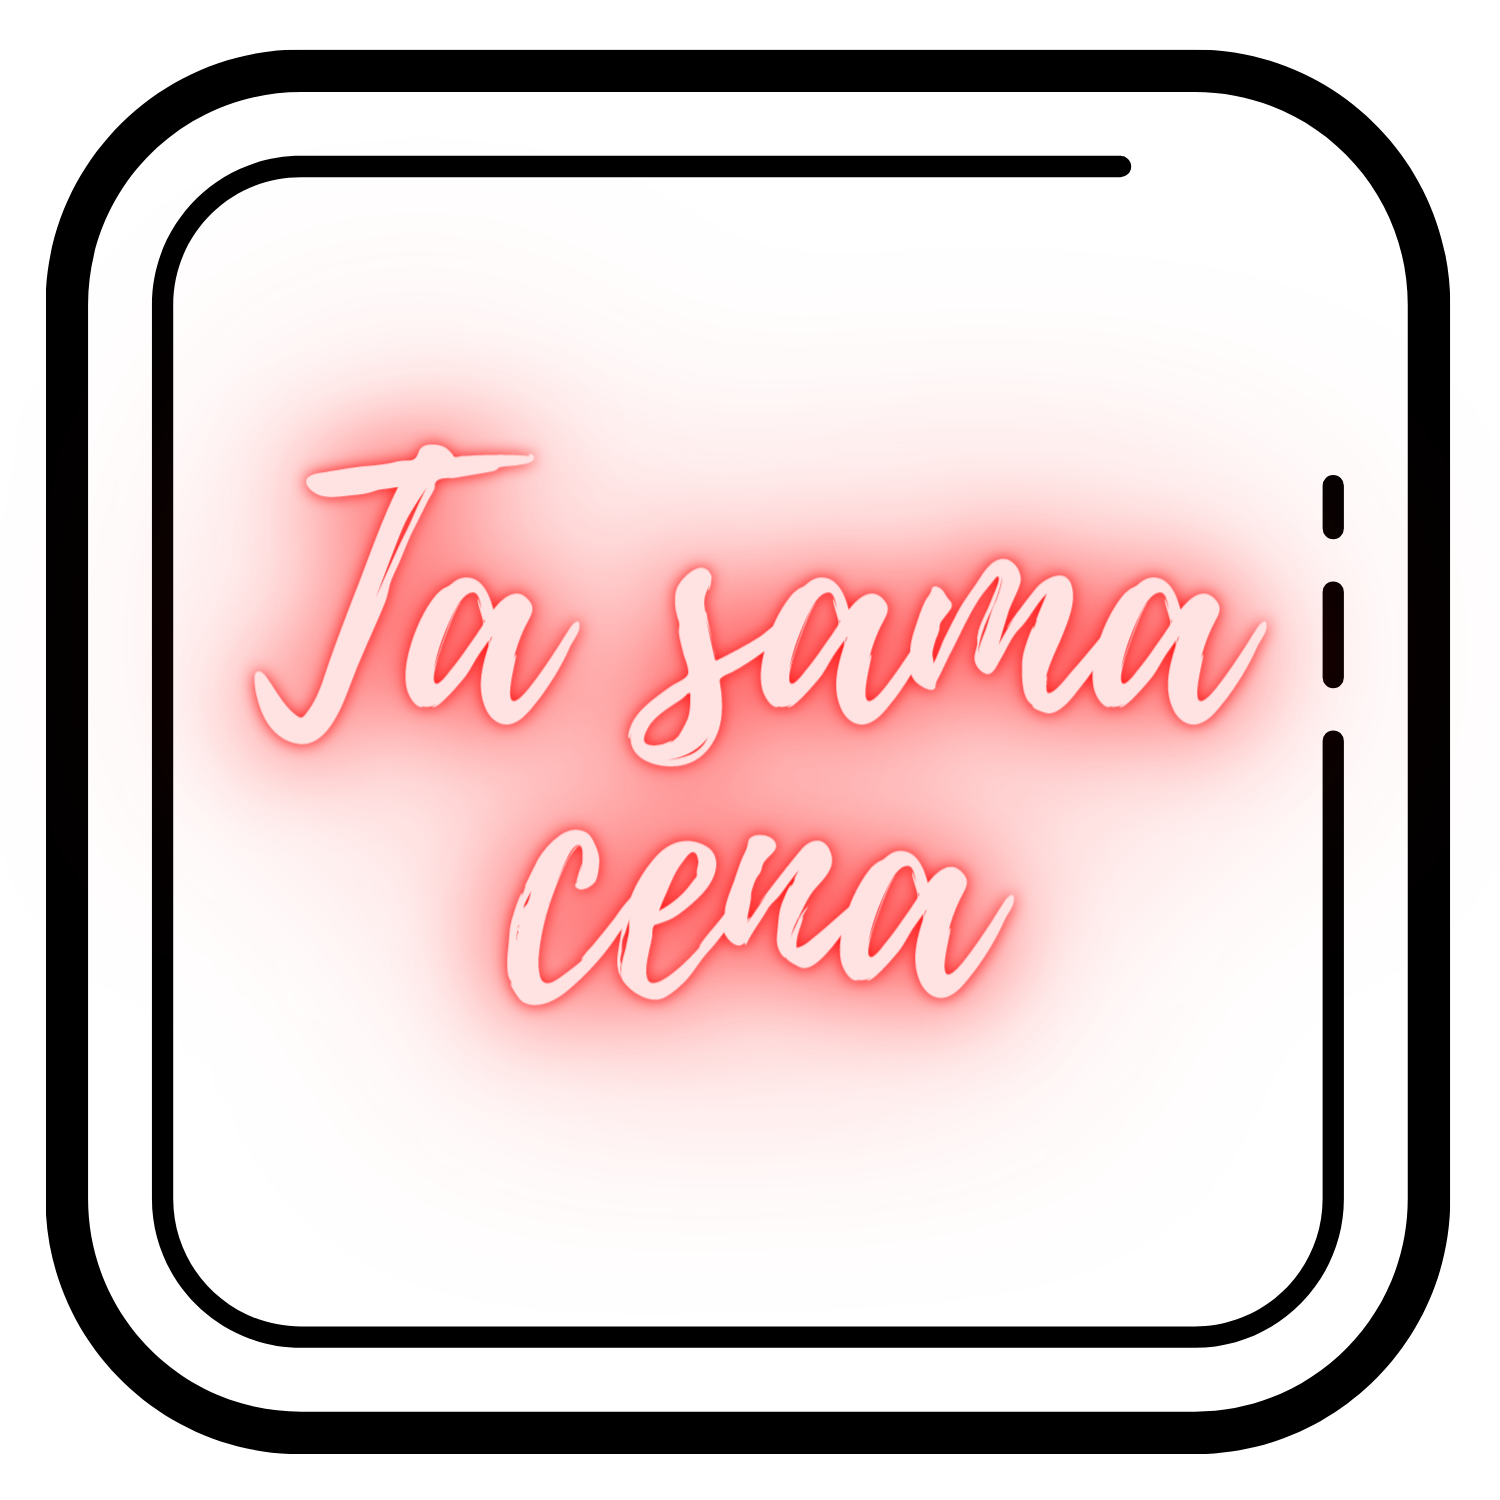
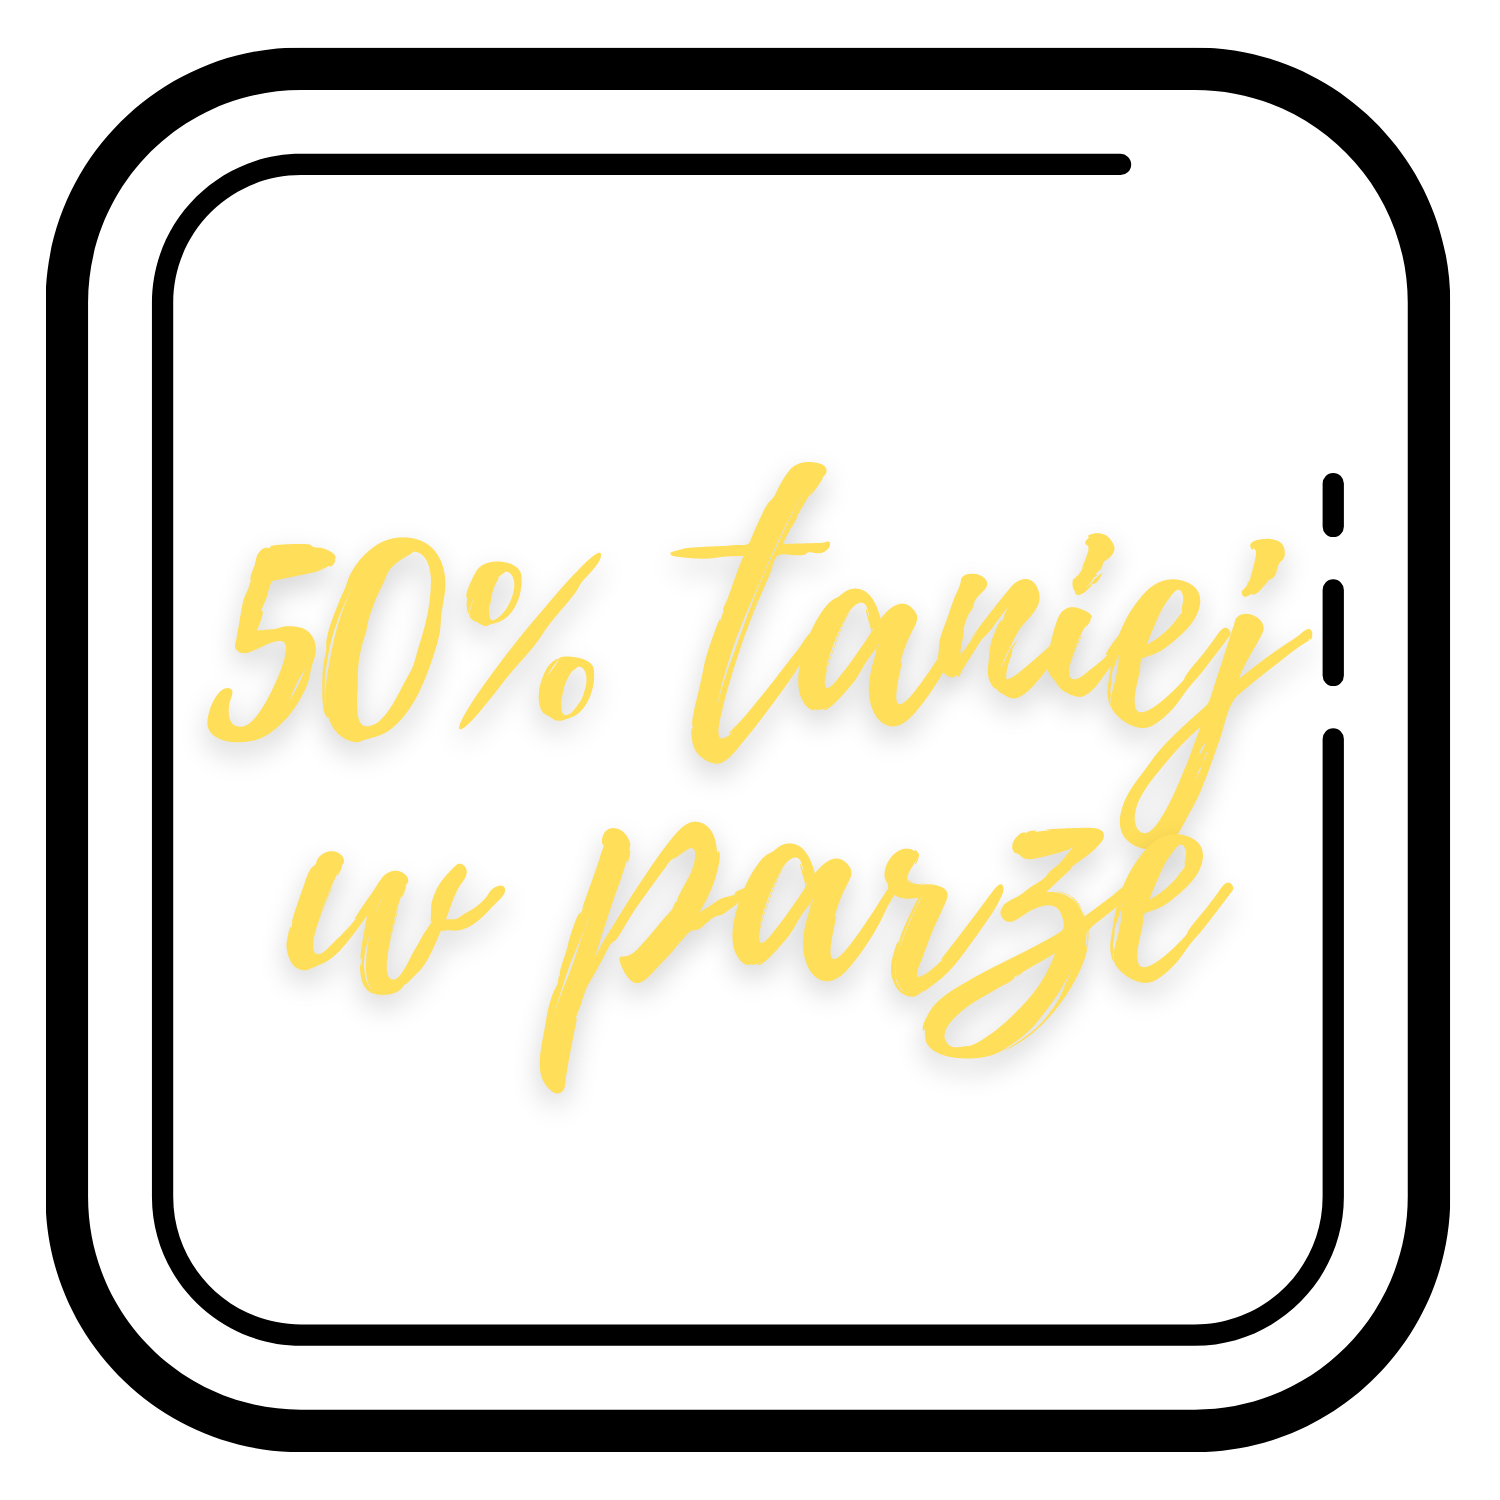
fix(aside): add aside pics, add flashcards back

diff --git a/src/styles/main-style.scss b/src/styles/main-style.scss
@@ -16,13 +16,12 @@
     }
 
     &__single-article {
-        background: white;
-        padding: 1rem;
-        margin-top: 3rem;
+        margin-top: 3rem 0 0;
         text-align: center;
 
-        @media (min-width: $tablet) and (max-width: $desktop) {
-            font-size: 24px;
+        @media (min-width: $tablet) {
+            font-size: 16px;
+            padding: 3rem;
         }
     }
 
@@ -52,7 +51,7 @@
 }
 
 .icon-image {
-    height: 20vh;
+    height: 22vh;
     width: auto;
     margin: 5% 0;
 }
@@ -60,8 +59,8 @@
 .flashcard {
     font-size: 1rem;
     background-color: transparent;
-    height: 20vh;
-    width: 20vh;
+    height: 25vh;
+    width: 25vh;
     margin: 5% auto;
     justify-self: center;
 }
@@ -101,11 +100,9 @@
     justify-content: center;
 }
 
-.flashcard-front {
-    .flashcard-image {
-        height: 100%;
-        width: auto;
-    }
+.flashcard-image {
+    height: 100%;
+    width: auto;
 }
 
 .flashcard-back {
@@ -117,7 +114,7 @@
 }
 
 .with-us-image {
-    height: 10vh;
+    height: 8vh;
     width: auto;
     display: block;
     margin: 0 auto;
@@ -158,17 +155,16 @@
 }
 
 #partnership {
-    height: 1200px;
+    height: 1900px;
+    padding-top: 10vh;
 }
 
 .content-aside-pic {
     height: 100%;
     background: rgb(255, 87, 87);
-    background: linear-gradient(
-        215deg,
-        rgba(255, 87, 87, 1) 58%,
-        rgba(247, 240, 169, 1) 89%
-    );
+    background: linear-gradient(215deg,
+            rgba(255, 87, 87, 1) 58%,
+            rgba(247, 240, 169, 1) 89%);
     background-repeat: no-repeat;
     width: 100%;
     position: fixed;
@@ -177,7 +173,8 @@
     z-index: -100;
 
     @media (min-width: $desktop) {
-        background: url('../images/aside-a.svg') no-repeat;
+        background: url('../images/aside-a.png') no-repeat;
+        background-size: cover;
         width: 40%;
         margin-top: 0;
     }
@@ -185,12 +182,14 @@
 
 .teaching {
     @media (min-width: $desktop) {
-        background: url('../images/aside-t.svg') no-repeat;
+        background: url('../images/aside-t.png') no-repeat;
+        background-size: cover;
     }
 }
 
 .partnership {
     @media (min-width: $desktop) {
-        background: url('../images/aside-p.svg') no-repeat;
+        background: url('../images/aside-p.png') no-repeat;
+        background-size: cover;
     }
 }

diff --git a/src/template.html b/src/template.html
@@ -77,7 +77,9 @@
                             <div class="flashcard-front">
                                 <img src="./images/time.png" class="flashcard-image" />
                             </div>
-                            <div class="flashcard-back">Text</div>
+                            <div class="flashcard-back">
+                                <img src="./images/czas.png" class="flashcard-image" />
+                            </div>
                         </div>
                     </div>
 
@@ -95,7 +97,9 @@
                             <div class="flashcard-front">
                                 <img src="./images/comfort.png" class="flashcard-image" />
                             </div>
-                            <div class="flashcard-back">Text</div>
+                            <div class="flashcard-back">
+                                <img src="./images/komfort.png" class="flashcard-image" />
+                            </div>
                         </div>
                     </div>
 
@@ -118,7 +122,9 @@
                             <div class="flashcard-front">
                                 <img src="./images/share.png" class="flashcard-image" />
                             </div>
-                            <div class="flashcard-back">Text</div>
+                            <div class="flashcard-back">
+                                <img src="./images/cena.png" class="flashcard-image" />
+                            </div>
                         </div>
                     </div>
 
@@ -179,7 +185,7 @@
     </main>
 
     <footer>
-        &copy; 2020, mini kontakt i nasze logo, jako tworcow
+        &copy; 2020
     </footer>
 </body>
 

diff --git a/src/styles/nav-style.scss b/src/styles/nav-style.scss
@@ -8,6 +8,7 @@ nav {
     width: 100%;
     scroll-behavior: smooth;
     box-shadow: 0px 6px 15px -4px black;
+    z-index: 20;
 
     @media (min-width: $tablet) {
         box-shadow: -5px 6px 15px -4px black;

diff --git a/src/styles/style.scss b/src/styles/style.scss
@@ -34,10 +34,6 @@ main {
     margin: 40px auto;
 }
 
-#partnershop {
-    height: 1900px;
-}
-
 @import './hero-style.scss';
 @import './nav-style.scss';
 @import './main-style.scss';
